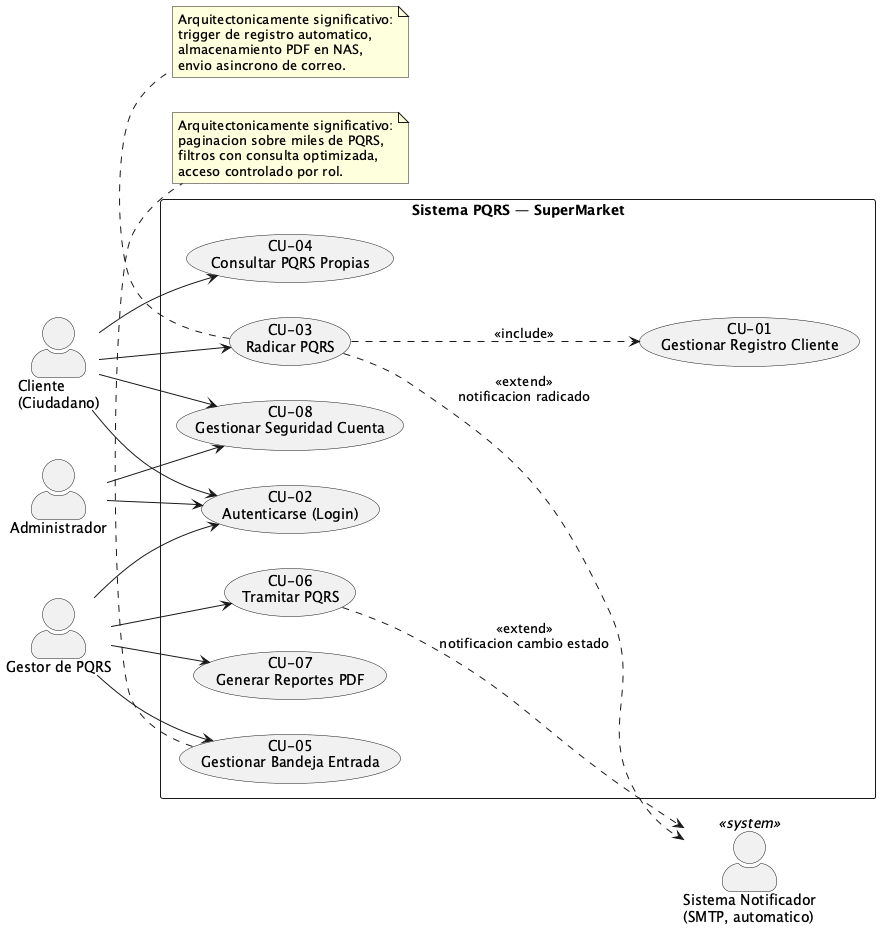
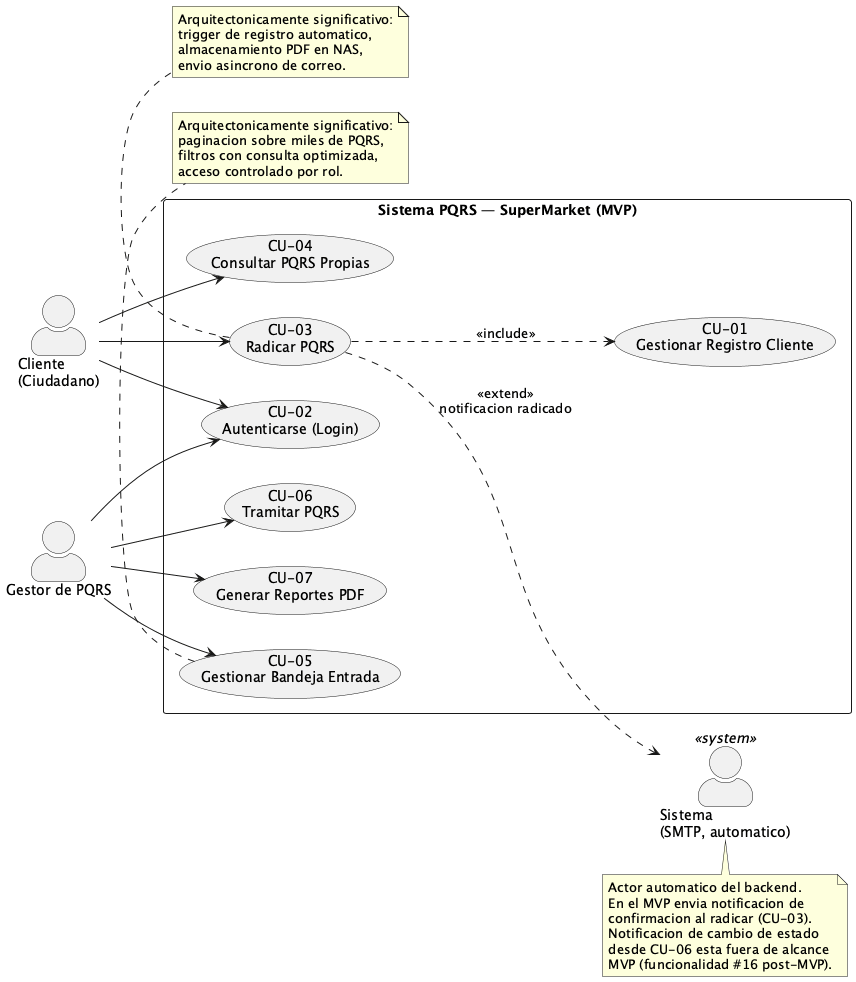
refactor: rename actor sistema notificador to sistema across project + c

diff --git a/Proyecto-Final/docs/7-Requerimientos-Funcionales.md b/Proyecto-Final/docs/7-Requerimientos-Funcionales.md
@@ -25,7 +25,7 @@
 | :--- | :--- | :--- |
 | **Cliente (Ciudadano)** | Actor principal. Persona natural que utiliza la App Móvil para registrar, consultar y radicar sus PQRS. | RF-01, RF-03, RF-04, RF-05 |
 | **Gestor de PQRS** | Empleado de SuperMarket que utiliza la Aplicación Web para gestionar, tramitar y revisar las solicitudes ingresadas. | RF-06, RF-07, RF-08, RF-09, RF-10, RF-11 |
-| **Sistema Notificador** | Actor secundario/automático encargado de disparar eventos como el envío de correos electrónicos y generación de contraseñas. | RF-02, RF-12 |
+| **Sistema** | Actor secundario/automático encargado de disparar eventos como el envío de correos electrónicos y generación de contraseñas. | RF-02, RF-12 |
 
 ---
 
@@ -102,7 +102,7 @@
 | **Identificador** | RF-02 |
 | **Nombre** | Registro Automático de Cliente |
 | **Resumen** | Si el cliente no existe en la base de datos al momento de radicar de forma anónima, el sistema lo registra automáticamente en el sistema de usuarios. |
-| **Actor** | Sistema Notificador |
+| **Actor** | Sistema |
 | **Caso de Uso Asociado** | CU-01: Gestionar Registro |
 | **Precondición** | El Cliente completó exitosamente el formulario de radicación (RF-01) pero su identificación no existe en base de datos. |
 | **Postcondición** | El cliente es creado en la BD de usuarios y se autogenera una clave temporal. |
@@ -420,7 +420,7 @@
 | **Identificador** | RF-12 |
 | **Nombre** | Notificación de Confirmación (Correo) |
 | **Resumen** | Envío automático de correo electrónico al cliente confirmando la radicación exitosa de su PQRS, incluyéndole su número de radicado (y su contraseña si fue registro nuevo). |
-| **Actor** | Sistema Notificador |
+| **Actor** | Sistema |
 | **Caso de Uso Asociado** | CU-03: Radicar PQRS |
 | **Precondición** | El sistema procesó y asignó un número de radicado a una PQRS (RF-01). |
 | **Postcondición** | Se entrega un mensaje al servidor SMTP para ser enviado al cliente. |

diff --git a/Proyecto-Final/docs/casos-de-uso/CU-08-Gestionar-Seguridad.md b/Proyecto-Final/docs/casos-de-uso/CU-08-Gestionar-Seguridad.md
@@ -10,7 +10,7 @@ Permite a los usuarios (Cliente o Gestor) administrar las credenciales de acceso
 ## 2. Actores
 * **Cliente:** Actor que administra su acceso desde la App Móvil o Web.
 * **Gestor de PQRS:** Actor que administra su acceso desde la Aplicación Web.
-* **Sistema (Notificador):** Actor encargado de enviar el correo electrónico de recuperación de contraseña.
+* **Sistema:** Actor encargado de enviar el correo electrónico de recuperación de contraseña.
 
 ## 3. Precondiciones
 * Para *Cambiar Contraseña* y *Cerrar Sesión*, el usuario debe estar autenticado en el sistema (CU-02).
@@ -34,7 +34,7 @@ Permite a los usuarios (Cliente o Gestor) administrar las credenciales de acceso
     2. El sistema solicita el "Número de Identificación" o "Correo Electrónico".
     3. El usuario ingresa el dato y presiona "Recuperar".
     4. El sistema busca al usuario en la BD. Si existe, genera un token temporal o una nueva contraseña autogenerada (como en el CU-01).
-    5. El Sistema Notificador envía un correo electrónico al usuario con las instrucciones o la nueva credencial.
+    5. El Sistema envía un correo electrónico al usuario con las instrucciones o la nueva credencial.
     6. El sistema informa en pantalla: "Se han enviado instrucciones a su correo electrónico registrado."
 *   **Flujo Alternativo 2 (Cerrar Sesión):**
     1. El usuario (Cliente o Gestor), estando autenticado, hace clic en "Cerrar Sesión" o "Salir" desde el menú principal de la App/Web.

diff --git a/Proyecto-Final/docs/build/arquitectura-pqrs/contenido/02-vista-casos-uso.md b/Proyecto-Final/docs/build/arquitectura-pqrs/contenido/02-vista-casos-uso.md
@@ -9,11 +9,11 @@ La vista de casos de uso establece los requisitos funcionales arquitectonicament
 | Cliente (Ciudadano) | Persona natural que radica, consulta y filtra sus PQRS desde la App Movil. |
 | Gestor de PQRS | Empleado de SuperMarket que tramita radicados desde la App Web (panel administrativo). |
 | Administrador | Rol tecnico con acceso a parametrizacion del sistema y consulta de auditoria. |
-| Sistema Notificador | Actor automatico que envia correos electronicos en eventos clave (radicacion, cambio de estado, contraseña autogenerada). |
+| Sistema | Actor automatico que envia correos electronicos en eventos clave (radicacion, cambio de estado, contraseña autogenerada). |
 
 ## 2.2 Diagrama general de casos de uso
 
-El diagrama completo vive en el archivo PlantUML `diagramas/arquitectura/1-vista-casos-uso.puml` del repositorio. Resumidamente, los actores se relacionan con los 8 casos de uso del sistema y con las relaciones de inclusion/extension hacia el sistema notificador.
+El diagrama completo vive en el archivo PlantUML `diagramas/arquitectura/1-vista-casos-uso.puml` del repositorio. Resumidamente, los actores se relacionan con los 8 casos de uso del sistema y con las relaciones de inclusion/extension hacia el sistema.
 
 ## 2.3 Casos de uso arquitectonicamente significativos
 

diff --git a/Proyecto-Final/docs/casos-de-uso/CU-01-Gestionar-Registro.md b/Proyecto-Final/docs/casos-de-uso/CU-01-Gestionar-Registro.md
@@ -7,7 +7,7 @@ Permite registrar automáticamente a un ciudadano en el sistema cuando radica un
 ## 2. Actores
 
 * **Cliente:** Persona natural cuya identificación no está aún en la base de datos.
-* **Sistema (Notificador):** Envía el correo electrónico con las credenciales autogeneradas.
+* **Sistema:** Envía el correo electrónico con las credenciales autogeneradas.
 
 ## 3. Precondiciones
 
@@ -21,7 +21,7 @@ Permite registrar automáticamente a un ciudadano en el sistema cuando radica un
 2. El sistema valida los datos personales recibidos en el payload de la PQRS (campos no vacíos, formato de correo, formato de teléfono).
 3. El sistema almacena el nuevo usuario con rol `cliente`.
 4. El sistema autogenera una contraseña segura (mínimo 6 caracteres, 1 mayúscula, 1 minúscula, 1 número) y la asocia a la cuenta (hash BCrypt).
-5. El Sistema Notificador envía un correo electrónico al Cliente con sus credenciales de acceso y el número de radicado de la PQRS.
+5. El Sistema envía un correo electrónico al Cliente con sus credenciales de acceso y el número de radicado de la PQRS.
 6. El control regresa a CU-03 (paso 7 del Flujo Principal de CU-03) sin interrumpir la radicación.
 
 ## 5. Flujos Alternativos

diff --git a/Proyecto-Final/docs/casos-de-uso/CU-03-Radicar-PQRS.md b/Proyecto-Final/docs/casos-de-uso/CU-03-Radicar-PQRS.md
@@ -5,7 +5,7 @@ Es el proceso central (core) mediante el cual un Cliente ingresa una nueva Petic
 
 ## 2. Actores
 * **Cliente:** Actor que inicia la radicación.
-* **Sistema (Notificador):** Actor encargado de enviar el correo electrónico confirmando el registro.
+* **Sistema:** Actor encargado de enviar el correo electrónico confirmando el registro.
 
 ## 3. Precondiciones
 * El Cliente debe estar dentro de la App Móvil, preferiblemente (pero no obligatoriamente) autenticado.
@@ -20,7 +20,7 @@ Es el proceso central (core) mediante el cual un Cliente ingresa una nueva Petic
 6. El sistema valida los datos obligatorios y el formato del archivo adjunto (.pdf).
 7. El sistema genera un "Número de Radicado" único de forma automática y registra la "Fecha del radicado" con el timestamp actual.
 8. El sistema guarda la PQRS en estado "Nuevo" y almacena el PDF en el servidor.
-9. El Sistema Notificador dispara el envío de un correo electrónico de confirmación al Cliente.
+9. El Sistema dispara el envío de un correo electrónico de confirmación al Cliente.
 10. El sistema notifica al Cliente en pantalla que la PQRS fue radicada exitosamente, mostrando el número de radicado.
 
 ## 5. Flujos Alternativos

diff --git a/Proyecto-Final/docs/casos-de-uso/0-Resumen-Casos-Uso.md b/Proyecto-Final/docs/casos-de-uso/0-Resumen-Casos-Uso.md
@@ -16,7 +16,7 @@ Los actores identificados que interactúan con las funcionalidades descritas son
 
 1. **Cliente (Ciudadano):** Actor principal. Persona natural que utiliza la App Móvil para registrar, consultar y radicar sus peticiones, quejas, reclamos y sugerencias.
 2. **Gestor de PQRS:** Actor principal (Administrador). Empleado de SuperMarket que utiliza la Aplicación Web para gestionar, tramitar y dar respuesta a las solicitudes ingresadas.
-3. **Sistema (Notificador):** Actor secundario/automático. Componente del sistema encargado de disparar eventos automáticos como el envío de correos electrónicos.
+3. **Sistema:** Actor secundario/automático. Componente del sistema encargado de disparar eventos automáticos como el envío de correos electrónicos.
 
 ## 3. Catálogo de Casos de Uso
 Con base en las 17 funcionalidades iniciales (12 obligatorias del MVP + 5 mejoras), se han estructurado **8 Casos de Uso** en total, de los cuales **7 están dentro del alcance MVP** (CU-01 a CU-07) y **1 queda fuera de alcance MVP** como referencia para iteraciones futuras (CU-08).

diff --git a/Proyecto-Final/docs/9-Arquitectura-PQRS.md b/Proyecto-Final/docs/9-Arquitectura-PQRS.md
@@ -76,7 +76,7 @@ Esta vista establece los CU arquitectónicamente significativos: aquellos que im
 |---|---|
 | **Cliente (Ciudadano)** | Persona natural que radica, consulta y filtra sus PQRS desde la App Móvil. |
 | **Gestor de PQRS** | Empleado de SuperMarket que tramita radicados desde la App Web. |
-| **Sistema Notificador** | Actor automático que envía correos electrónicos (radicación, cambio de estado, contraseñas autogeneradas). |
+| **Sistema** | Actor automático que envía correos electrónicos (radicación, cambio de estado, contraseñas autogeneradas). |
 
 > **Nota sobre Administrador:** El contexto del proyecto (`0-Contexto-Proyecto-Final.md`) no menciona un actor Administrador. El sistema reserva el rol `admin` en BD para administración futura (auditoría, parametrización) pero **no se modela como actor en el MVP**. Entrará al diagrama cuando el equipo planifique funcionalidades administrativas post-MVP.
 
